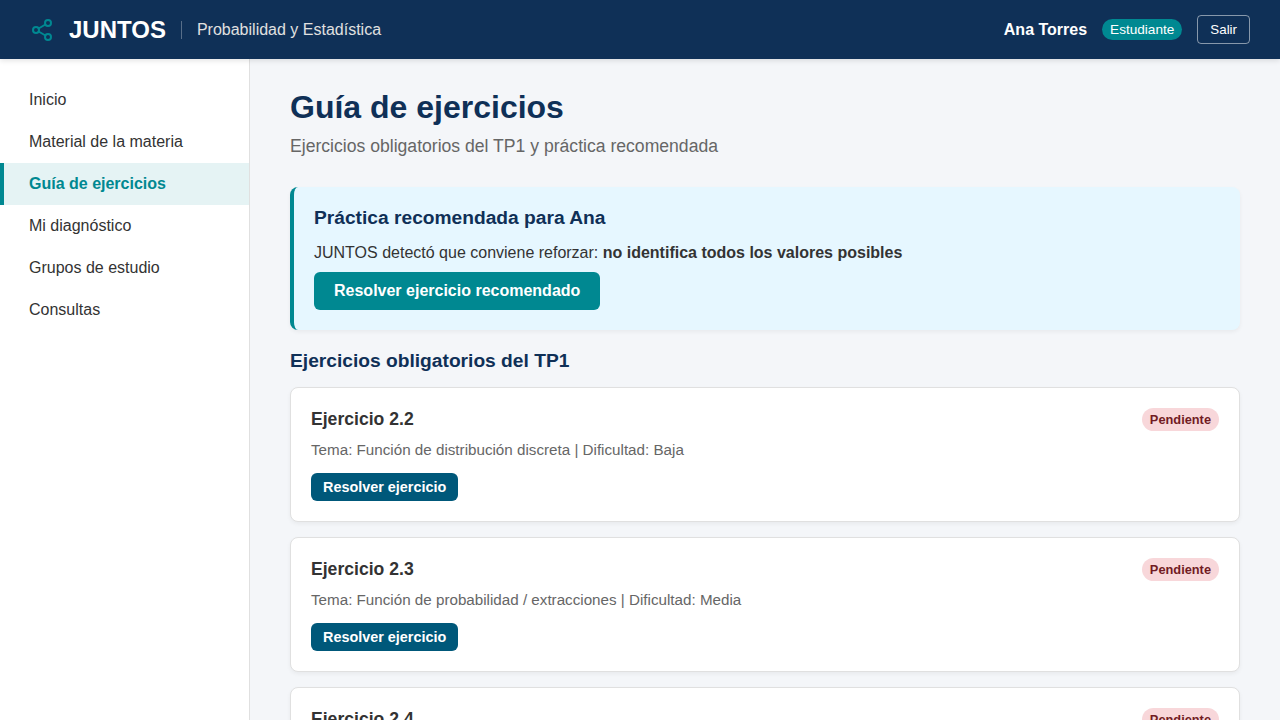
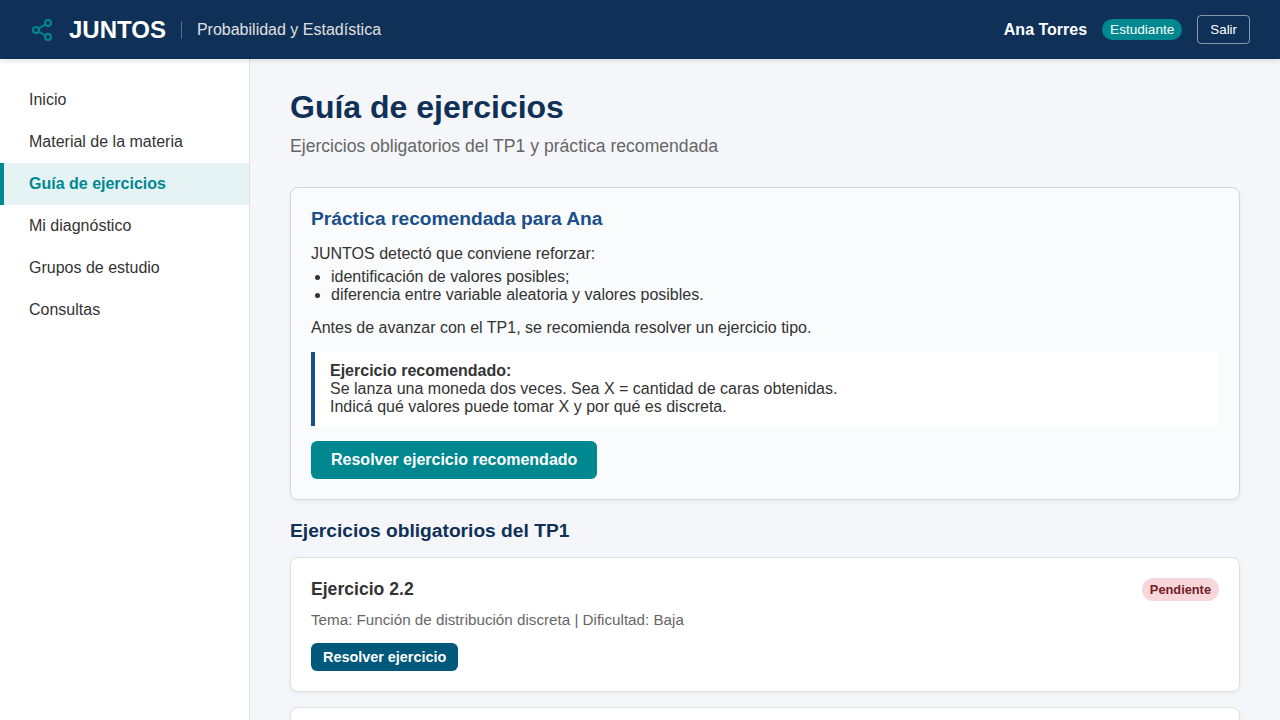
Refactor JUNTOS prototype views for static demonstration
Simplified the JUNTOS prototype to focus on showing the core value flow without full logic implementation. Added static mock sections for "Historial de cursada" and "Alertas tempranas". Refactored "Guía de ejercicios" and "Grupos de estudio" to show static recommended practice and suggested groups instead of conditional logic. Adjusted "Mi diagnóstico" layout to cleanly show understood topics, weak topics, and difficulties. Ensure clean navigation structure is maintained.

diff --git a/frontend/student-demo.js b/frontend/student-demo.js
@@ -123,12 +123,46 @@ function renderInicio(mainContentArea, mainTitle, mainDesc) {
         <div style="margin-top: 30px;">
             <button id="btn-comenzar-teoria" class="demo-btn primary">Comenzar teoría guiada</button>
         </div>
+
+        <div class="diagnostico-section mt-20">
+            <h3>Historial de cursada</h3>
+            <div class="cards-grid" style="grid-template-columns: 1fr;">
+                <div class="stat-card" style="text-align: left;">
+                    <h4 style="margin-top:0;">Semana 1 — Probabilidad básica</h4>
+                    <p><strong>Estado:</strong> completada</p>
+                    <button class="demo-btn small-btn btn-historial">Ver resumen</button>
+                </div>
+                <div class="stat-card" style="text-align: left;">
+                    <h4 style="margin-top:0;">Semana 2 — Probabilidad condicional</h4>
+                    <p><strong>Estado:</strong> refuerzo recomendado</p>
+                    <p><strong>Dificultad:</strong> independencia vs probabilidad condicional</p>
+                    <button class="demo-btn small-btn btn-historial">Repasar</button>
+                </div>
+                <div class="stat-card" style="text-align: left;">
+                    <h4 style="margin-top:0;">Semana 3 — Variables aleatorias</h4>
+                    <p><strong>Estado:</strong> completada</p>
+                    <button class="demo-btn small-btn btn-historial">Ver resumen</button>
+                </div>
+                <div class="stat-card" style="text-align: left;">
+                    <h4 style="margin-top:0;">Semana 4 — Variables aleatorias discretas</h4>
+                    <p><strong>Estado:</strong> en curso</p>
+                    <button class="demo-btn small-btn btn-historial">Continuar</button>
+                </div>
+            </div>
+            <div id="msg-historial" class="hidden mt-10" style="padding: 10px; background-color: #eef2f5; border-left: 4px solid var(--accent-color); border-radius: 4px;">
+                En una versión completa, JUNTOS permitiría repasar esta semana con una explicación breve, ejercicios tipo y diagnóstico de temas pendientes.
+            </div>
+        </div>
     `;
-
-
 
     document.getElementById('btn-comenzar-teoria').addEventListener('click', () => {
         clickSidebarMenu('material');
+    });
+
+    document.querySelectorAll('.btn-historial').forEach(btn => {
+        btn.addEventListener('click', () => {
+            document.getElementById('msg-historial').classList.remove('hidden');
+        });
     });
 }
 
@@ -588,27 +622,27 @@ function renderGuiaEjercicios(mainContentArea, mainTitle, mainDesc) {
     mainDesc.textContent = "Ejercicios obligatorios del TP1 y práctica recomendada";
 
     const state = loadTheoryState();
-    const hasRecommendations = (state.detectedDifficulties && state.detectedDifficulties.length > 0) ||
-                               (state.recommendations && state.recommendations.length > 0);
 
-    let recommendedHtml = '';
-    if (hasRecommendations) {
-        let diffsText = state.detectedDifficulties.map(d => d.difficulty).join(", ");
-        recommendedHtml = `
-            <div class="recommended-practice-card">
-                <h3 class="exercise-section-title">Práctica recomendada para Ana</h3>
-                <p>JUNTOS detectó que conviene reforzar: <strong>${diffsText || 'conceptos en proceso'}</strong></p>
-                <button id="btn-resolve-recommended" class="demo-btn primary mt-10">Resolver ejercicio recomendado</button>
+    // Prototipo: Mostramos siempre la recomendación estática solicitada
+    let recommendedHtml = `
+        <div class="recommended-practice-card" style="background-color: #f9fbfc; border: 1px solid #d0d7de; padding: 20px; border-radius: 8px;">
+            <h3 class="exercise-section-title" style="margin-top: 0; color: #1a4f8b;">Práctica recomendada para Ana</h3>
+            <p>JUNTOS detectó que conviene reforzar:</p>
+            <ul style="margin-top: 5px; margin-bottom: 15px; padding-left: 20px;">
+                <li>identificación de valores posibles;</li>
+                <li>diferencia entre variable aleatoria y valores posibles.</li>
+            </ul>
+            <p style="margin-bottom: 15px;">Antes de avanzar con el TP1, se recomienda resolver un ejercicio tipo.</p>
+
+            <div style="background-color: white; border-left: 4px solid #1a4f8b; padding: 10px 15px; margin-bottom: 15px;">
+                <strong>Ejercicio recomendado:</strong><br>
+                Se lanza una moneda dos veces. Sea X = cantidad de caras obtenidas.<br>
+                Indicá qué valores puede tomar X y por qué es discreta.
             </div>
-        `;
-    } else {
-        recommendedHtml = `
-            <div class="recommended-practice-card">
-                <h3 class="exercise-section-title">Práctica recomendada para Ana</h3>
-                <p>Todavía no hay recomendaciones específicas. Avanzá con la teoría guiada para que JUNTOS pueda personalizar tu práctica.</p>
-            </div>
-        `;
-    }
+
+            <button id="btn-resolve-recommended" class="demo-btn primary">Resolver ejercicio recomendado</button>
+        </div>
+    `;
 
     let requiredHtml = REQUIRED_EXERCISES.map((ex, index) => {
         let statusTag = '';
@@ -640,11 +674,9 @@ function renderGuiaEjercicios(mainContentArea, mainTitle, mainDesc) {
         </div>
     `;
 
-    if (hasRecommendations) {
-        document.getElementById('btn-resolve-recommended').addEventListener('click', () => {
-            openExerciseResolver(mainContentArea, mainTitle, mainDesc, RECOMMENDED_EXERCISE);
-        });
-    }
+    document.getElementById('btn-resolve-recommended').addEventListener('click', () => {
+        openExerciseResolver(mainContentArea, mainTitle, mainDesc, RECOMMENDED_EXERCISE);
+    });
 
     document.querySelectorAll('.btn-resolve-required').forEach(btn => {
         btn.addEventListener('click', (e) => {
@@ -729,6 +761,10 @@ function renderDiagnostico(mainContentArea, mainTitle, mainDesc) {
         ? state.understoodTopics.map(t => `<li>${t}</li>`).join("")
         : "<li>Todavía no hay temas marcados como entendidos.</li>";
 
+    let weakHtml = state.weakTopics.length > 0
+        ? state.weakTopics.map(t => `<li>${t}</li>`).join("")
+        : "<li>Todavía no hay temas marcados como flojos.</li>";
+
     let difficultiesHtml = "";
     if (state.detectedDifficulties && state.detectedDifficulties.length > 0) {
         difficultiesHtml = state.detectedDifficulties.map(d => `
@@ -741,39 +777,6 @@ function renderDiagnostico(mainContentArea, mainTitle, mainDesc) {
     } else {
         difficultiesHtml = "<p>Todavía no hay dificultades detectadas. A medida que interactúes con la teoría guiada, JUNTOS va a actualizar este diagnóstico.</p>";
     }
-
-    let tableRows = THEORY_TOPICS.map(topic => {
-        let status = "Pendiente";
-        let statusClass = "status-pending";
-        let observation = "Todavía no iniciado";
-
-        if (state.understoodTopics.includes(topic)) {
-            status = "Entendido";
-            statusClass = "status-understood";
-            observation = "Fortaleza";
-        } else if (state.weakTopics.includes(topic)) {
-            status = "En proceso";
-            statusClass = "status-weak";
-            const diff = state.detectedDifficulties.find(d => d.topic === topic);
-            observation = diff ? "Dificultad detectada" : "Necesita refuerzo";
-        } else if (state.completedTopics.includes(topic)) {
-            status = "Completado";
-            statusClass = "status-understood";
-            observation = "Finalizado";
-        } else if (state.currentTopic === topic) {
-            status = "En progreso";
-            statusClass = "status-pending";
-            observation = "Tema actual";
-        }
-
-        return `
-            <tr>
-                <td>${topic}</td>
-                <td><span class="status-pill ${statusClass}">${status}</span></td>
-                <td>${observation}</td>
-            </tr>
-        `;
-    }).join("");
 
     mainContentArea.innerHTML = `
         <div class="diagnostico-container">
@@ -789,9 +792,16 @@ function renderDiagnostico(mainContentArea, mainTitle, mainDesc) {
             </div>
 
             <div class="diagnostico-section mt-20">
-                <h3>Fortalezas detectadas</h3>
+                <h3>Temas entendidos</h3>
                 <ul class="strength-list">
                     ${understoodHtml}
+                </ul>
+            </div>
+
+            <div class="diagnostico-section mt-20">
+                <h3>Temas flojos</h3>
+                <ul class="strength-list">
+                    ${weakHtml}
                 </ul>
             </div>
 
@@ -803,19 +813,25 @@ function renderDiagnostico(mainContentArea, mainTitle, mainDesc) {
             </div>
 
             <div class="diagnostico-section mt-20">
-                <h3>Resumen de temas</h3>
-                <table class="topic-status-table mt-10">
-                    <thead>
-                        <tr>
-                            <th>Tema</th>
-                            <th>Estado</th>
-                            <th>Observación</th>
-                        </tr>
-                    </thead>
-                    <tbody>
-                        ${tableRows}
-                    </tbody>
-                </table>
+                <h3>Historial de cursada resumido</h3>
+                <div class="cards-grid" style="grid-template-columns: 1fr;">
+                    <div class="stat-card" style="text-align: left;">
+                        <h4 style="margin-top:0;">Semana 1 — Probabilidad básica</h4>
+                        <p><strong>Estado:</strong> completada</p>
+                    </div>
+                    <div class="stat-card" style="text-align: left;">
+                        <h4 style="margin-top:0;">Semana 2 — Probabilidad condicional</h4>
+                        <p><strong>Estado:</strong> refuerzo recomendado</p>
+                    </div>
+                    <div class="stat-card" style="text-align: left;">
+                        <h4 style="margin-top:0;">Semana 3 — Variables aleatorias</h4>
+                        <p><strong>Estado:</strong> completada</p>
+                    </div>
+                    <div class="stat-card" style="text-align: left;">
+                        <h4 style="margin-top:0;">Semana 4 — Variables aleatorias discretas</h4>
+                        <p><strong>Estado:</strong> en curso</p>
+                    </div>
+                </div>
             </div>
         </div>
     `;
@@ -875,24 +891,27 @@ function renderGrupos(mainContentArea, mainTitle, mainDesc) {
 
     mainContentArea.innerHTML = `
         <div class="grupo-card">
-            <h3>Grupo: Intervalos para medias</h3>
-            <p><strong>Motivo:</strong> Ana tuvo dificultad en error estándar y margen de error. Este grupo trabaja esos temas con ejercicios similares.</p>
-            <p><strong>Horario:</strong> Jueves 18:00</p>
-            <p><strong>Compañeros:</strong></p>
+            <h3>Grupo sugerido por JUNTOS</h3>
+            <p><strong>Tema:</strong> Variable aleatoria discreta</p>
+            <p><strong>Motivo:</strong> varios estudiantes presentan dificultad para identificar valores posibles.</p>
+            <p><strong>Integrantes sugeridos:</strong></p>
             <ul>
-                <li>Diego Pérez: también necesita reforzar error estándar</li>
-                <li>Camila Ruiz: resolvió bien error estándar y puede explicar</li>
-                <li>Martín Gómez: tiene dificultad en interpretación</li>
-                <li>Ana Torres: recomendada para practicar cálculo e interpretación</li>
+                <li>Ana Torres</li>
+                <li>Diego Pérez</li>
+                <li>Camila Ruiz</li>
+                <li>Martín Gómez</li>
             </ul>
+            <p><strong>Actividad sugerida:</strong></p>
+            <p>Resolver ejercicios tipo sobre variables de conteo.</p>
             <button id="btn-unirse-grupo" class="demo-btn primary mt-10">Unirme al grupo</button>
-            <div id="msg-unirse-grupo" class="success-msg hidden mt-10">Te sumaste al grupo de estudio. JUNTOS va a sugerirles ejercicios de error estándar e intervalos para medias.</div>
+            <div id="msg-unirse-grupo" class="success-msg hidden mt-10" style="padding: 10px; background-color: #eef2f5; border-left: 4px solid var(--accent-color); border-radius: 4px;">
+                Te sumamos al grupo sugerido. En una versión completa, JUNTOS coordinaría la actividad y sugeriría ejercicios compartidos.
+            </div>
         </div>
     `;
 
     document.getElementById('btn-unirse-grupo').addEventListener('click', function() {
         document.getElementById('msg-unirse-grupo').classList.remove('hidden');
-        this.style.display = 'none';
     });
 }
 

diff --git a/frontend/docente.html b/frontend/docente.html
@@ -88,6 +88,38 @@
                 if (welcomeNameEl) welcomeNameEl.textContent = name;
             }
         });
+
+        // Demo logic for teacher alerts
+        window.renderDemoSection = function(target, sectionName, mainContentArea, mainTitle, mainDesc) {
+            if (!mainContentArea || !mainTitle || !mainDesc) return false;
+
+            if (target === 'alertas') {
+                mainTitle.textContent = "Alertas tempranas";
+                mainDesc.textContent = "Estudiantes que requieren intervención docente";
+
+                mainContentArea.innerHTML = `
+                    <div class="diagnostico-section">
+                        <div class="cards-grid" style="grid-template-columns: 1fr;">
+                            <div class="stat-card" style="text-align: left; border-left: 4px solid #f0ad4e;">
+                                <h3>Ana Torres</h3>
+                                <p><strong>Riesgo:</strong> medio</p>
+                                <p><strong>Motivo:</strong> dificultad repetida en identificación de valores posibles</p>
+                                <p><strong>Acción sugerida:</strong> práctica adicional antes del TP1</p>
+                            </div>
+
+                            <div class="stat-card" style="text-align: left; border-left: 4px solid #5cb85c;">
+                                <h3>Diego Pérez</h3>
+                                <p><strong>Riesgo:</strong> bajo</p>
+                                <p><strong>Motivo:</strong> buen avance en teoría, práctica pendiente</p>
+                                <p><strong>Acción sugerida:</strong> iniciar TP1</p>
+                            </div>
+                        </div>
+                    </div>
+                `;
+                return true;
+            }
+            return false;
+        };
     </script>
 </body>
 </html>
